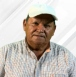
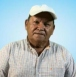
a

diff --git a/about-us.html b/about-us.html
@@ -147,7 +147,7 @@
     </div>
 </nav><!-- End bread crumbs -->
 <div class="banner">
-    <img src="https://static.vecteezy.com/system/resources/previews/001/878/668/non_2x/dark-blue-modern-blurred-backdrop-vector.jpg" alt="Imagen de fondo">
+    <img src="./assets/img/fondo.jpg" alt="Imagen de fondo">
     <div class="banner-texto">
       <h1>Grupo Astro</h1>
       <p>
@@ -259,7 +259,7 @@
                     <div class="slide" style="background-image: url('assets/img/staff/CarlosJr.webp');">
                         <span class="caption-text">CARLOS <br> CASTILLO</span>
                         <div class="caption">
-                            <span class="caption-name">GERENTE Jr.</span>
+                            <span class="caption-name">GERENTE JR.</span>
                         </div>
                     </div>
                     <div class="slide" style="background-image: url('assets/img/staff/lucy-staff.webp');">
@@ -269,7 +269,7 @@
                         </div>
                     </div>
                     <div class="slide" style="background-image: url('assets/img/staff/juan-staff.webp');">
-                        <span class="caption-text">JUAN <br>NUÑEZ</span>
+                        <span class="caption-text">JUAN <br>NUÑÉZ</span>
                         <div class="caption">
                             <span class="caption-name">OPERADOR</span>
                         </div>

diff --git a/index.html b/index.html
@@ -650,7 +650,7 @@
 							<div class="reviews-item item-style">
 								<div class="reviews-item-header">
 									<div class="reviews-item-img">
[2 lines of base64/hex data omitted]
 									</div>
 									<div class="reviews-item-info">
 										<h4 class="reviews-item-name item-heading">Miguel A. Amador</h4>
@@ -732,7 +732,7 @@
 							<div class="reviews-item item-style">
 								<div class="reviews-item-header">
 									<div class="reviews-item-img">
[2 lines of base64/hex data omitted]
 									</div>
 									<div class="reviews-item-info">
 										<h4 class="reviews-item-name item-heading">David R. Castro</h4>
